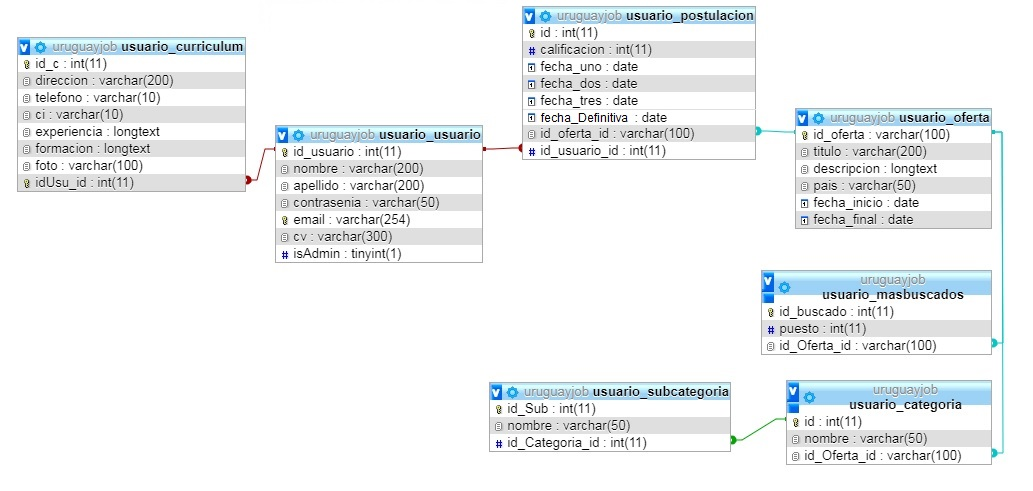
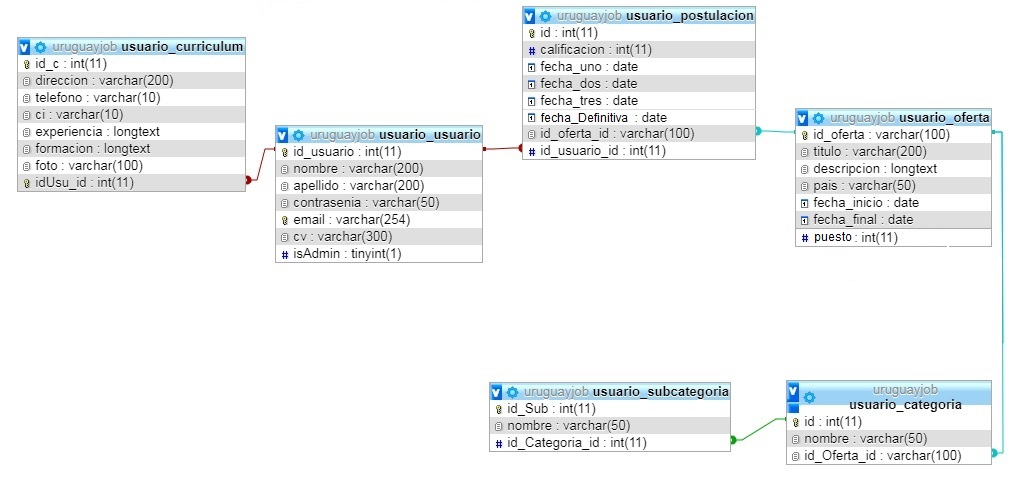
pronto categorias

Changed region(s): [[0.7125, 0.5499, 0.9913, 0.7332], [0.7744, 0.4582, 0.8674, 0.5193]]

diff --git a/UruguayJob/templates/busquedas.html b/UruguayJob/templates/busquedas.html
@@ -154,7 +154,9 @@
 									<button type="submit" class="btn btn-success" name='idOf' value={{o.id_oferta}}>Postularme</button>
 								</form>
 							{% endif %}
-
+						
+						{% else %}
+							<span style="color: red;">Inicie sesion para Postularte</span>
 						{% endif %}
 					</div>
 					<div class="col-9 mt-2">

diff --git a/UruguayJob/apps/Usuario/views.py b/UruguayJob/apps/Usuario/views.py
@@ -1,5 +1,5 @@
 from django.shortcuts import render, redirect
-from apps.Usuario.models import Usuario, Oferta, Categoria, masBuscados, Curriculum, UruguayConcursa,Postulacion
+from apps.Usuario.models import Usuario, Oferta, Categoria, Curriculum, UruguayConcursa,Postulacion
 
 import json
 
@@ -10,7 +10,6 @@ def NotieneCV(request):
         return False # si tiene cv
     except Curriculum.DoesNotExist:
         return True # no tiene cv
-
 
 def postularme(request):
     if request.method != 'POST':
@@ -43,7 +42,6 @@ def postularmeBusquedas(request):
     p.id_usuario = Usuario.objects.get(id_usuario=request.session['id_usuario'])
     p.save()
 
-    #ingresarOfertasAMasBuscados(request, filtrarOfertas(request))
     context = {
         'esUsuario': True,
         'Categorias':CargarCategorias(request),
@@ -83,7 +81,7 @@ def cargarUruguayConcursaJson(request):
             uc.organismo = p['organismo']
             uc.comentario_interes = p['comentario_interes']
             uc.save()
-    
+
     allUC = UruguayConcursa.objects.all() 
     for uc in allUC:
         o = Oferta()
@@ -94,6 +92,11 @@ def cargarUruguayConcursaJson(request):
         o.fecha_inicio = uc.fecha_inicio
         o.fecha_final = uc.fecha_fin
         o.save()
+
+        c = Categoria()
+        c.nombre = uc.tipo_tarea
+        c.id_Oferta = Oferta.objects.get(id_oferta=uc.nro_llamado)
+        c.save()
 
     #lo siguiente puede que no valla, vos ves
     request.session.flush()
@@ -740,36 +743,15 @@ def recortarDescripcion(request):
         o.descripcion = o.descripcion[:101] + "..."
     return Ofertas
 
-def ingresarOfertasAMasBuscados(request, listOfertas):
-    #mbssss =  masBuscados.objects.all()
-    #if len(mbssss) > 0:
-
-     #   for o in listOfertas:
-    #    mbs = masBuscados.objects.all()
-     #       for m in mbs:
-     #           if m.id_Oferta == o:
-     #               m.puesto = m.puesto + 1
-     #               m.save()
-
-    #else:
-     #   for o in listOfertas:
-     #       mbs = masBuscados()
-     #       mbs.puesto = 1
-      #      mbs.id_Oferta = Oferta.objects.get(id_oferta=o.id_oferta) 
-      #      mbs.save()
-      print("ingresarOfertasAMasBuscados")
+def incrementarPuesto(request, listOfertas):
+    print("hola")
 
 def Buscar(request):
-    if request.method != 'POST':
-        request.session.flush()
-        return render(request, 'iniciarSesion.html')
     #print(request.POST['keyWord'])
     try:
         request.session['nombre']
 
-        #--- algoritmo para buscar ofertas y determinar lo mas buscado-------- 
-
-        ingresarOfertasAMasBuscados(request, filtrarOfertas(request))
+        #incrementarPuesto(request, filtrarOfertas(request))
         context = {
             'esUsuario': True,
             'Categorias':CargarCategorias(request),
@@ -780,13 +762,12 @@ def Buscar(request):
         return render(request, 'busquedas.html', context )
     except KeyError:
 
-        ingresarOfertasAMasBuscados(request, filtrarOfertas(request))
+        #incrementarPuesto(request, filtrarOfertas(request))
         context = {
             'esUsuario': False,
             'Categorias':CargarCategorias(request),
             'OfertasRec' : recortarDescripcion(request),
-            'Ofertas' : filtrarOfertas(request),
-            'NotieneCV':  NotieneCV(request)
+            'Ofertas' : filtrarOfertas(request)
         }
         return render(request, 'busquedas.html', context )
 

diff --git a/UruguayJob/apps/Usuario/migrations/0001_initial.py b/UruguayJob/apps/Usuario/migrations/0001_initial.py
@@ -1,4 +1,4 @@
-# Generated by Django 3.1.1 on 2020-10-07 10:31
+# Generated by Django 3.1.1 on 2020-10-08 06:46
 
 from django.db import migrations, models
 import django.db.models.deletion
@@ -88,14 +88,6 @@ class Migration(migrations.Migration):
             field=models.ManyToManyField(related_name='Postulacion', through='Usuario.Postulacion', to='Usuario.Usuario'),
         ),
         migrations.CreateModel(
-            name='masBuscados',
-            fields=[
-                ('id_buscado', models.AutoField(primary_key=True, serialize=False)),
-                ('puesto', models.IntegerField()),
-                ('id_Oferta', models.ForeignKey(null=True, on_delete=django.db.models.deletion.CASCADE, to='Usuario.oferta')),
-            ],
-        ),
-        migrations.CreateModel(
             name='Curriculum',
             fields=[
                 ('id_c', models.AutoField(primary_key=True, serialize=False)),
@@ -104,7 +96,7 @@ class Migration(migrations.Migration):
                 ('ci', models.CharField(blank=True, max_length=10, null=True, verbose_name='telefono')),
                 ('experiencia', models.TextField(blank=True, null=True)),
                 ('formacion', models.TextField(blank=True, null=True)),
-                ('foto', models.ImageField(blank=True, null=True, upload_to='updateFoto')),
+                ('foto', models.ImageField(blank=True, null=True, upload_to='updateFoto/')),
                 ('idUsu', models.OneToOneField(on_delete=django.db.models.deletion.CASCADE, to='Usuario.usuario')),
             ],
         ),

diff --git a/UruguayJob/apps/Usuario/models.py b/UruguayJob/apps/Usuario/models.py
@@ -29,6 +29,8 @@ class Oferta(models.Model):
     fecha_final = models.DateField('fecha final')
     Usuario_id = models.ManyToManyField(Usuario, related_name='Postulacion', through='Postulacion')
 
+    #puesto = models.IntegerField('puesto', blank = True, null = True)
+
 class Postulacion(models.Model):
     id_oferta = models.ForeignKey(Oferta, on_delete = models.CASCADE)
     id_usuario = models.ForeignKey(Usuario, on_delete = models.CASCADE)
@@ -47,11 +49,6 @@ class SubCategoria(models.Model):
     id_Sub =  models.AutoField(primary_key = True)
     nombre = models.CharField('Nombre', max_length = 50, blank = False, null = False)
     id_Categoria = models.ForeignKey(Categoria, on_delete = models.CASCADE, null = True)
-
-class masBuscados(models.Model):
-    id_buscado =  models.AutoField(primary_key = True)
-    puesto = models.IntegerField(blank = False, null = False)
-    id_Oferta = models.ForeignKey(Oferta, on_delete = models.CASCADE, null = True)
 
 class UruguayConcursa(models.Model):
     nro_llamado = models.CharField(primary_key = True, max_length = 100)

diff --git a/UruguayJob/apps/Usuario/admin.py b/UruguayJob/apps/Usuario/admin.py
@@ -1,11 +1,10 @@
 from django.contrib import admin
-from . models import Usuario, Oferta, Postulacion, Categoria, masBuscados, Curriculum, UruguayConcursa
+from . models import Usuario, Oferta, Postulacion, Categoria, Curriculum, UruguayConcursa
 # Register your models here.
 admin.site.register(Usuario)
 admin.site.register(Oferta)
 admin.site.register(Postulacion)
 admin.site.register(Categoria)
-admin.site.register(masBuscados)
 admin.site.register(Curriculum)
 admin.site.register(UruguayConcursa)
 
